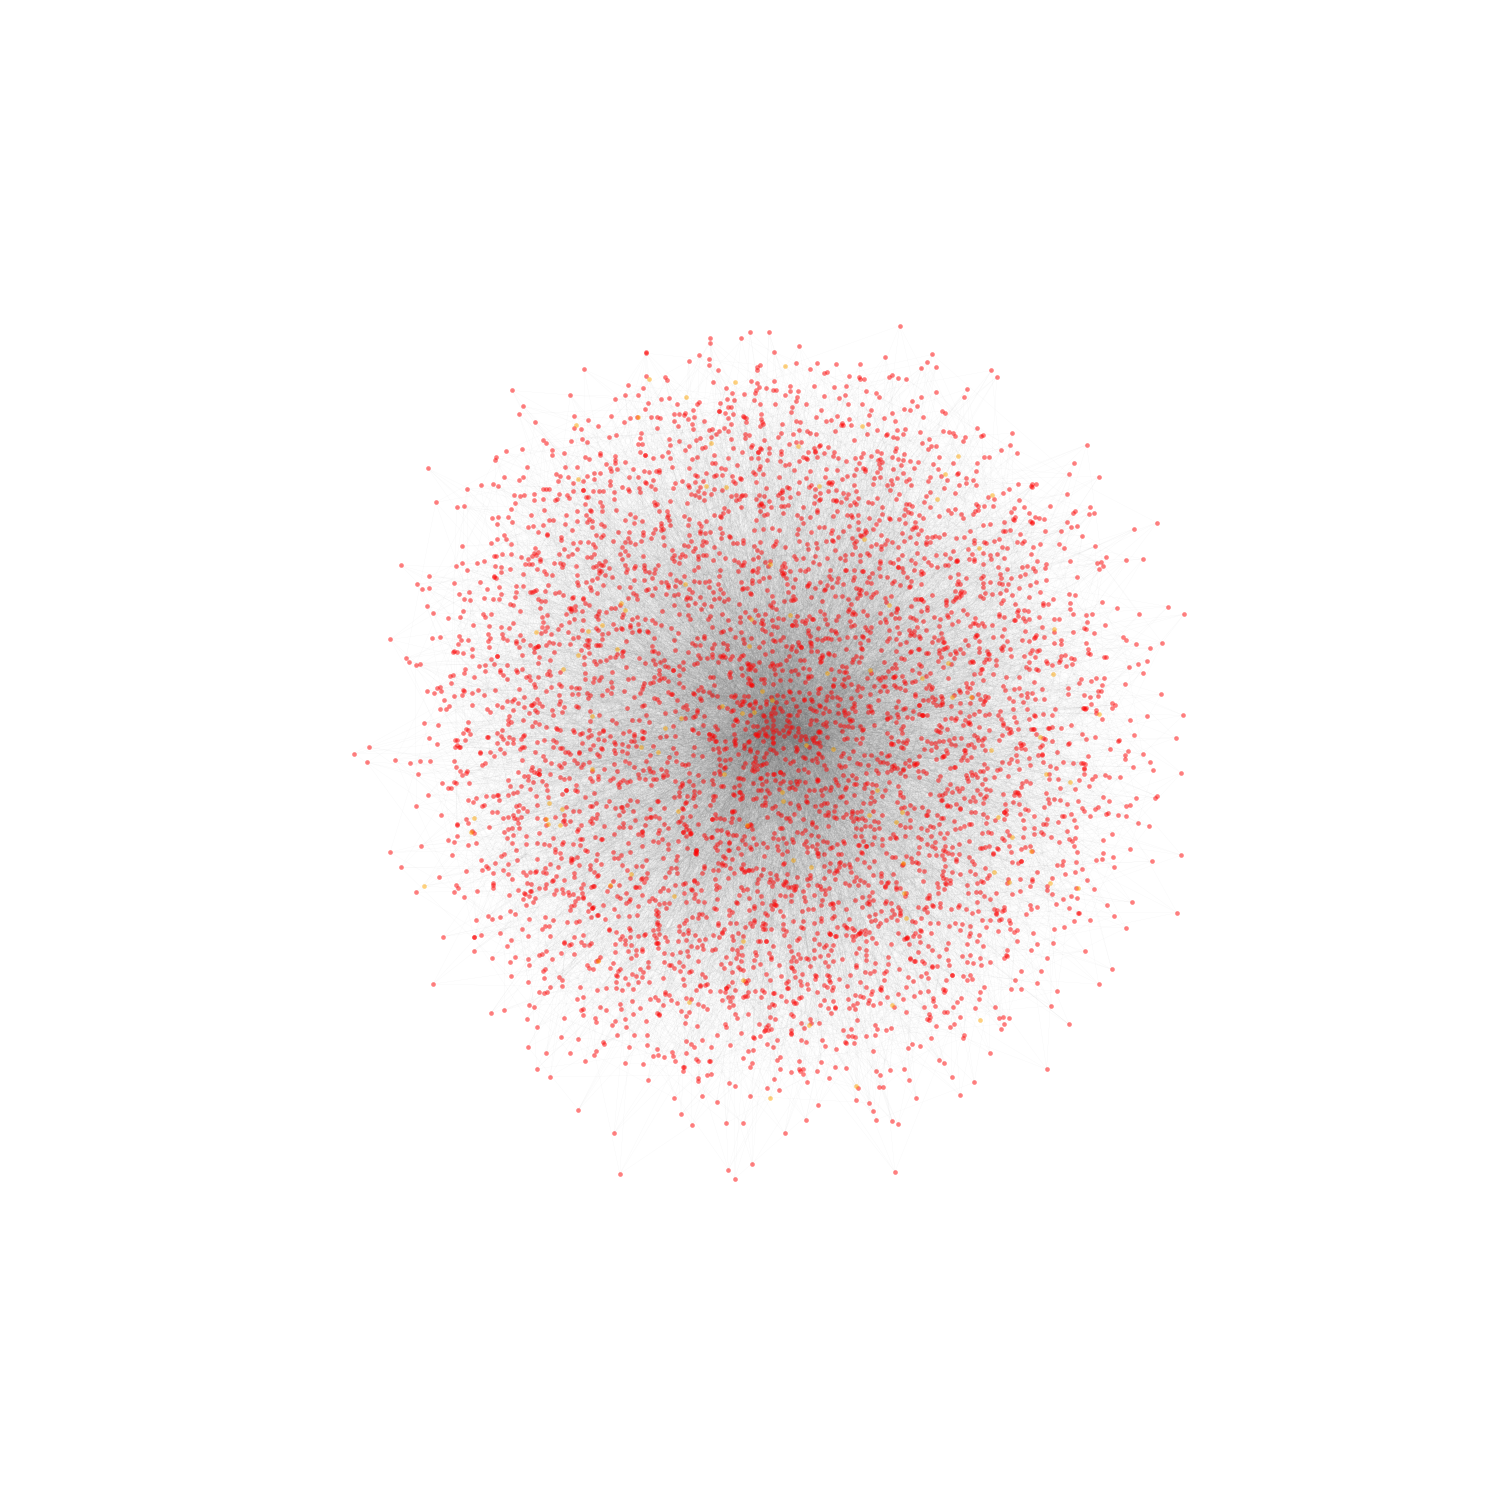
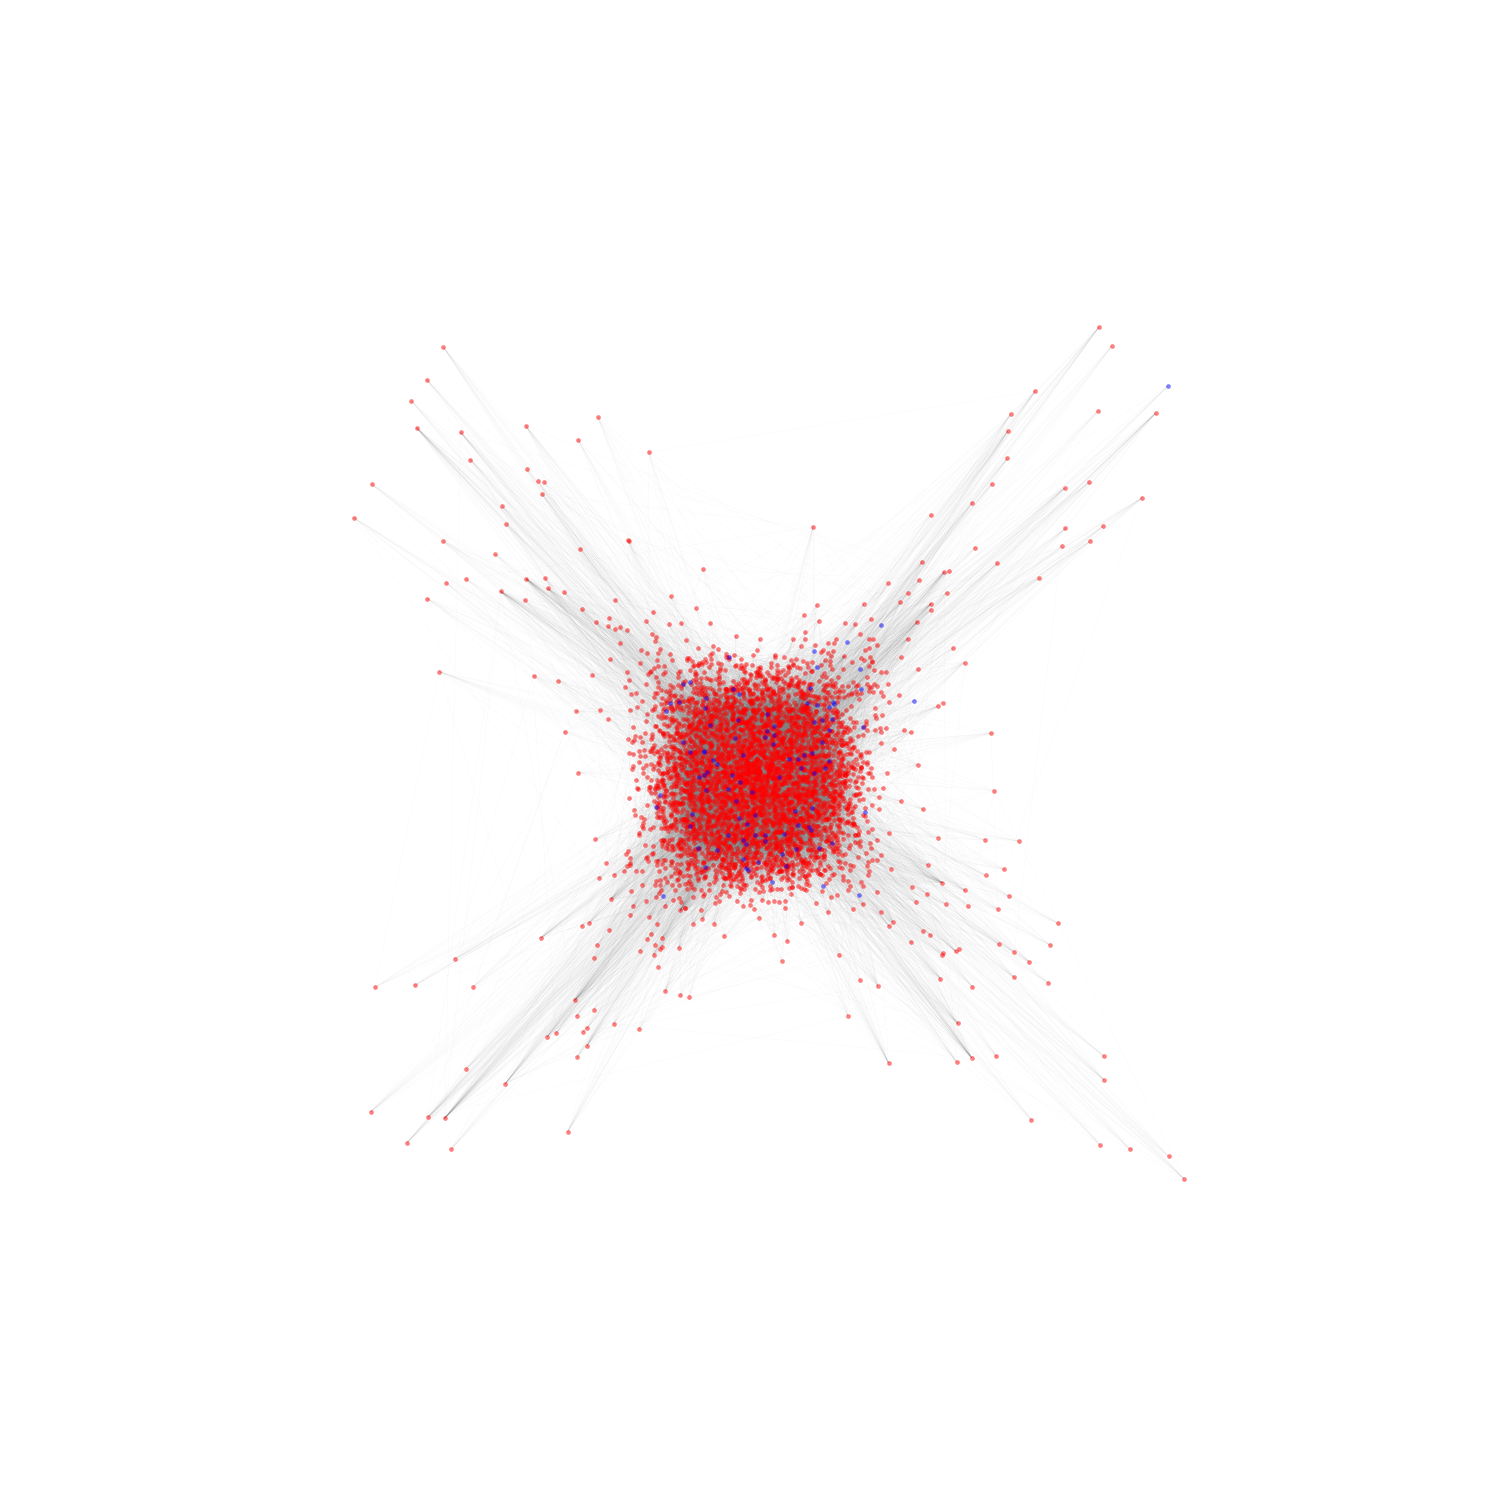
Threshold model for BA and ER graphs

Changed region(s): [[0.276, 0.2453, 0.7667, 0.7053]]

diff --git a/threshold_model.py b/threshold_model.py
@@ -29,10 +29,10 @@ class ThresholdModel(object):
 
     RESULT_DIR = '/data/threshold_model/'
 
-    def __init__(self, graph, threshold=0.5, seed_size=100):
+    def __init__(self, graph, threshold=0.5, seed_size=200):
         if not graph.size():
             raise Exception('Invalid graph')
-        if threshold >= 1:
+        if threshold > 1:
             raise Exception('Invalid threshold')
         if seed_size >= graph.size():
             raise Exception('Invalid seed size')
@@ -60,29 +60,47 @@ class ThresholdModel(object):
             nodes.append(node)
         return nodes
 
-    @timeit
-    def set_seed(self):
+    def get_center(self):
+        bt = nx.betweenness_centrality(self.G)
+        for (node, betweenness) in sorted(bt.items(), key=lambda x: x[1], reverse=True):
+            nodes = nx.ego_graph(self.G, node).nodes()
+            return nodes
+
+    def get_centers(self):
+        bt = nx.betweenness_centrality(self.G)
+        centers = []
+        i = 0
+        for (node, betweenness) in sorted(bt.items(), key=lambda x: x[1], reverse=True):
+            centers.append(node)
+            i += 1
+            if i > 100:
+                return centers
+        return centers
+
+    def get_random_seed(self):
         seed = set()
         while len(seed) < self.seed_size:
-            index = random.randint(1, self.G.number_of_nodes())
-            seed.add(graph.nodes()[index])
+            index = random.randint(0, self.G.number_of_nodes() - 1)
+            seed.add(self.G.nodes()[index])
+        return seed
+
+    def set_seed(self):
+        seed = self.get_centers()
+        # seed = self.get_center()
+        #seed = self.get_random_seed()
+        #seed = self.get_hubs()
         self.seed = list(seed)
-        print('Seed: ')
-        print(self.seed)
         for i in xrange(len(self.seed)):
             self.marked[self.seed[i]] = 1
         for i in xrange(len(self.seed)):
             self.enqueue_neighbors(self.seed[i])
 
-    @timeit
     def enqueue_neighbors(self, node):
-        print(node)
         neighbors = self.G.neighbors(node)
         for j in xrange(len(neighbors)):
             if neighbors[j] not in self.marked:
                 self.pq.put(neighbors[j])
 
-    @timeit
     def spread(self):
         self.set_seed()
         while not self.pq.empty():
@@ -92,10 +110,9 @@ class ThresholdModel(object):
                 if vote:
                     self.marked[node] = 1
                     self.enqueue_neighbors(node)
+        return len(self.marked)
 
-    @timeit
     def vote(self, node):
-        print(node)
         neighbors = self.G.neighbors(node)
         return float(len(set(neighbors).intersection(self.marked.keys()))) > self.threshold * float(len(neighbors))
 
@@ -116,12 +133,27 @@ class ThresholdModel(object):
 
         nx.draw_networkx_nodes(self.G, pos, list(not_marked), alpha=0.2, node_size=20, node_color='grey')
         nx.draw_networkx_nodes(self.G, pos, list(not_seed), alpha=0.5, node_size=20, node_color='red', linewidths=0.)
-        nx.draw_networkx_nodes(self.G, pos, self.seed, alpha=0.5, node_size=20, node_color='orange', linewidths=0.)
+        nx.draw_networkx_nodes(self.G, pos, self.seed, alpha=0.5, node_size=20, node_color='blue', linewidths=0.)
         nx.draw_networkx_edges(self.G, pos, alpha=0.2, node_size=0, width=0.1, edge_color='grey')
 
-        plt.savefig(self.get_data_dir() + ThresholdModel.RESULT_DIR +
+        plt.savefig(ThresholdModel.get_data_dir() + ThresholdModel.RESULT_DIR +
                     '_'.join([filename, str(self.threshold).replace('.',''), str(self.seed_size)]) , dpi=75, transparent=False)
         plt.close()
+
+    @staticmethod
+    def plot_spread_size_distribution(thresholds, o_sizes, ba_sizes=None, er_sizes=None):
+
+        plt.plot(thresholds, o_sizes, linestyle="solid", color="blue")
+        if ba_sizes:
+            plt.plot(thresholds, ba_sizes, linestyle="solid", color="black")
+        if er_sizes:
+            plt.plot(thresholds, er_sizes, linestyle="solid", color="red")
+
+        plt.rcParams['text.usetex'] = False
+        plt.xlabel("threshold")
+        plt.ylabel("spread size, nodes")
+        plt.savefig(ThresholdModel.get_data_dir() + ThresholdModel.RESULT_DIR
+                    + 'spread_size_distribution.png', dpi=75, transparent=False)
 
 
 def get_opera_graph():
@@ -138,19 +170,25 @@ def get_opera_graph():
     print(avg) # 20.9834926151
     return giant
 
+
+thresholds = [float(i)/100. for i in range(100)]
+
 graph = get_opera_graph()
+o_sizes = []
+for i in xrange(len(thresholds)):
+    o_sizes.append(ThresholdModel(graph, thresholds[i]).spread())
+print(o_sizes)
 
-tm = ThresholdModel(get_opera_graph(), 0.2, 500)
-tm.spread()
-tm.draw('opera')
+graph = nx.barabasi_albert_graph(4604, 10)
+ba_sizes = []
+for i in xrange(len(thresholds)):
+    ba_sizes.append(ThresholdModel(graph, thresholds[i]).spread())
+print(ba_sizes)
 
-# n = graph.number_of_nodes()
-# m = graph.number_of_edges()
-#
-# tm = ThresholdModel(nx.barabasi_albert_graph(n, 21), 0.1)
-# tm.spread()
-# tm.draw('ba')
+graph = nx.erdos_renyi_graph(4604, 0.005)
+er_sizes = []
+for i in xrange(len(thresholds)):
+    er_sizes.append(ThresholdModel(graph, thresholds[i]).spread())
+print(er_sizes)
 
-# tm = ThresholdModel(nx.erdos_renyi_graph(n, m), 0.1)
-# tm.spread()
-# tm.draw('er')
+ThresholdModel.plot_spread_size_distribution(thresholds, o_sizes, ba_sizes, er_sizes)

diff --git a/analyzer.py b/analyzer.py
@@ -46,9 +46,9 @@ class Analyzer(object):
 
         inf = self.info(graph)
         n = graph.number_of_nodes()
-        er = nx.erdos_renyi_graph(n, 0.05)
+        er = nx.erdos_renyi_graph(n, 0.005)
         inf += self.info(er, 'ER')
-        ba = nx.barabasi_albert_graph(n, 5)
+        ba = nx.barabasi_albert_graph(n, 10)
         inf += self.info(ba, 'BA')
 
         return inf
@@ -112,4 +112,5 @@ class Analyzer(object):
         for i in xrange(len(inf)):
             print(inf[i])
 
-Analyzer().connectivity()
+Analyzer().inform()
+#Analyzer().connectivity()
